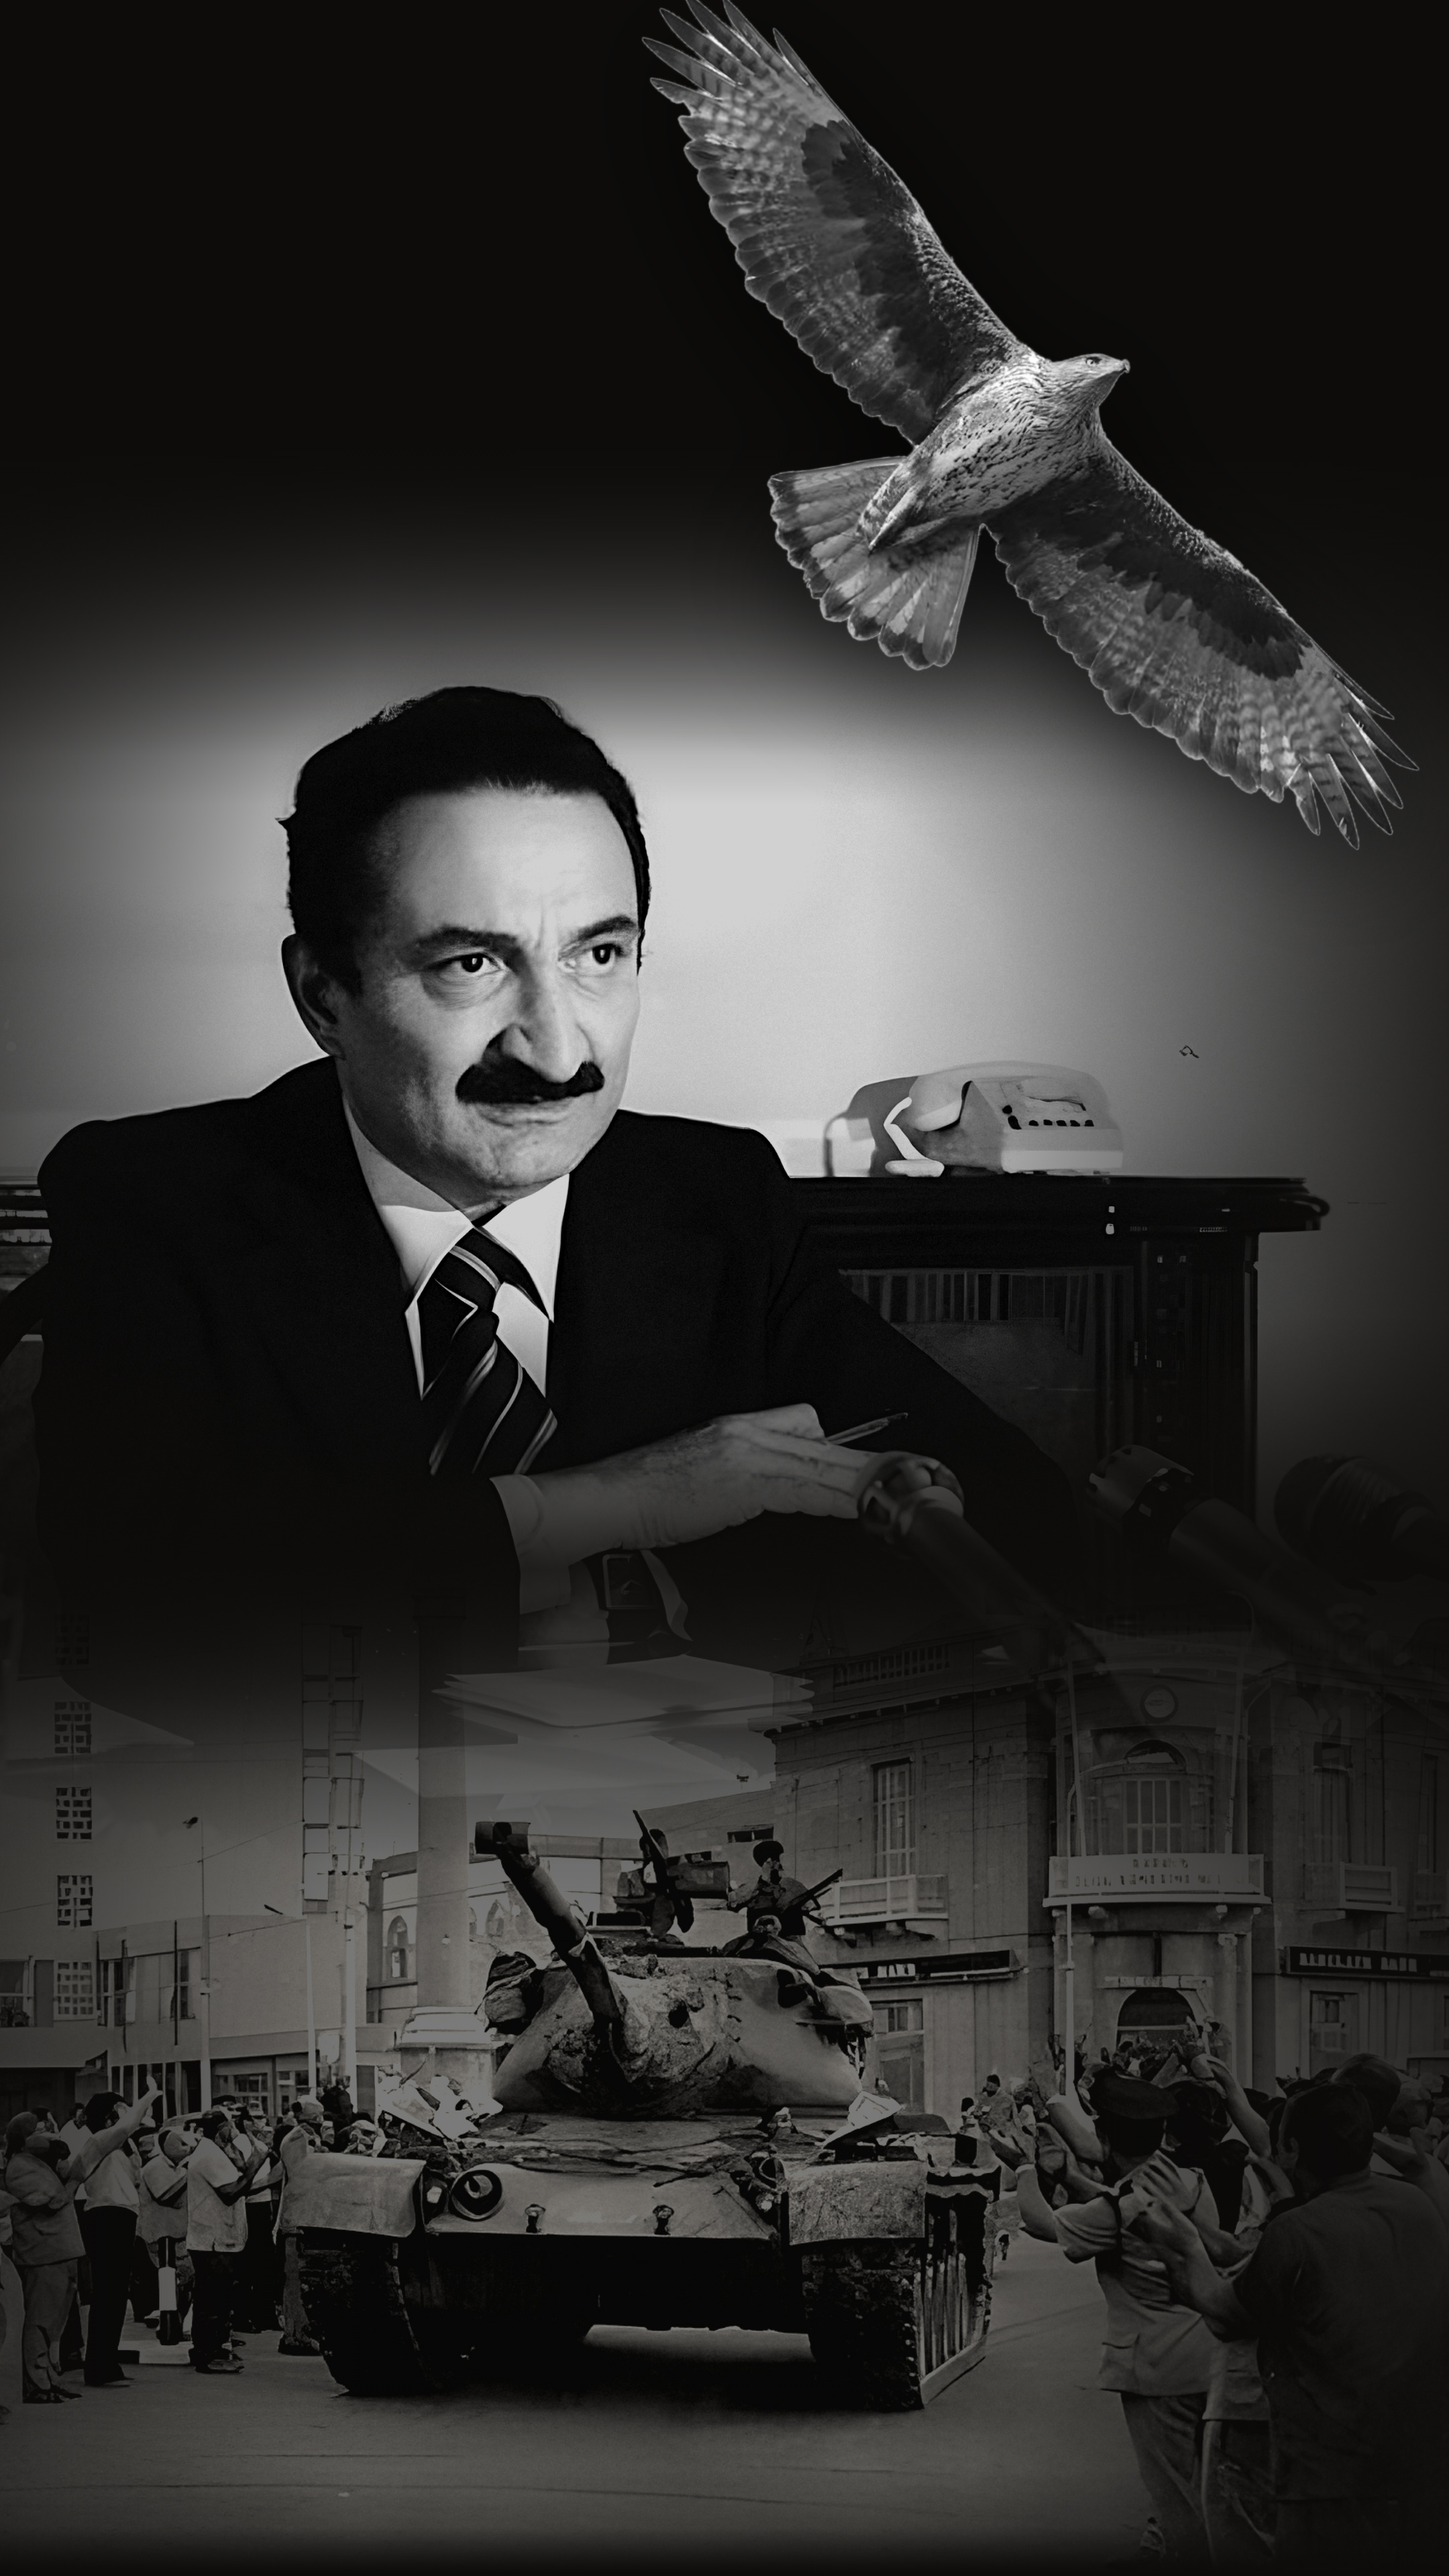
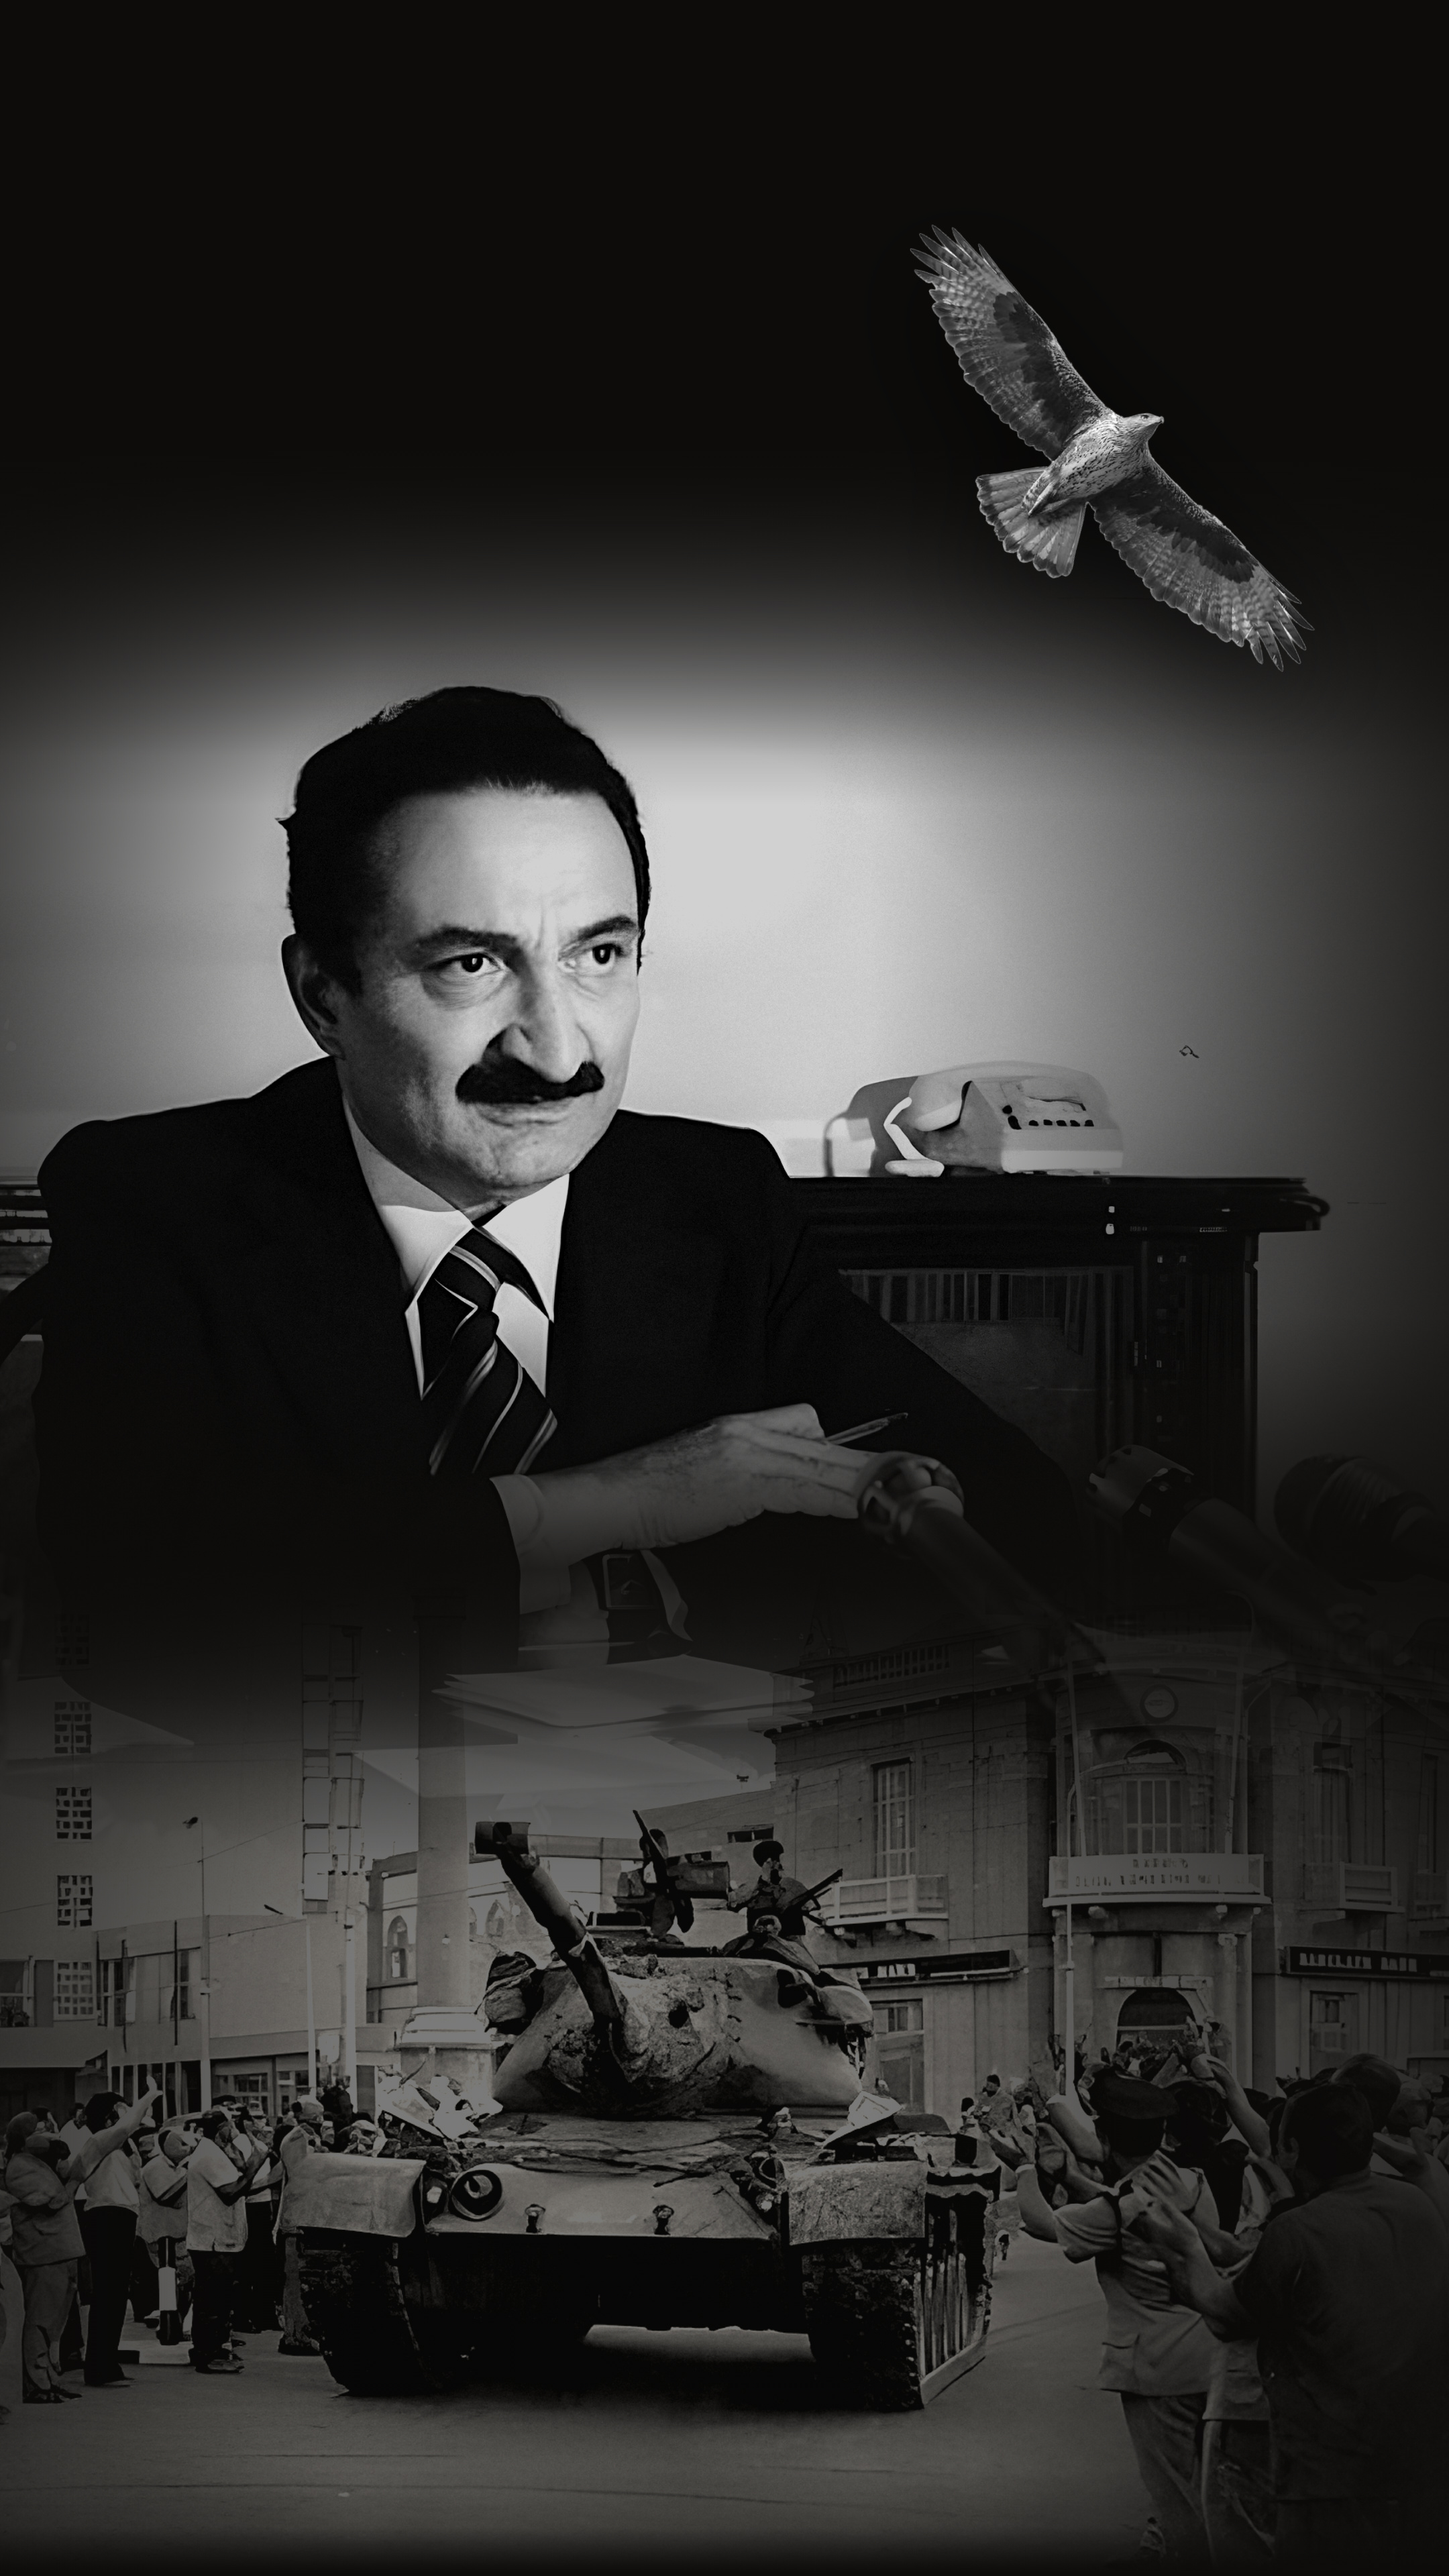
Ecevit story: kartal belirgin şekilde küçültüldü
Claude-Session: https://claude.ai/code/session_01SatttGbgBLoCnk9KGLypWv

Changed region(s): [[0.4343, 0.0, 0.9616, 0.3125]]

diff --git a/tasarim/kisisel/ecevit-kibris/gorsel.html b/tasarim/kisisel/ecevit-kibris/gorsel.html
@@ -6,7 +6,7 @@ html,body{margin:0;width:1080px;height:1920px;overflow:hidden;background:#0d0c0b
  linear-gradient(180deg,#0d0c0b 0,#0d0c0b 300px,rgba(13,12,11,.6) 430px,rgba(13,12,11,0) 600px,rgba(13,12,11,0) 980px,rgba(13,12,11,.85) 1170px,rgba(13,12,11,.2) 1330px,rgba(13,12,11,0) 1450px,rgba(13,12,11,0) 1840px,rgba(13,12,11,.6) 1920px),
  linear-gradient(90deg,rgba(13,12,11,.55) 0,rgba(13,12,11,0) 25%,rgba(13,12,11,0) 60%,rgba(13,12,11,.75)),
  radial-gradient(700px 520px at 470px 760px,rgba(13,12,11,0) 40%,rgba(13,12,11,.55))}
-.kartal{position:absolute;left:520px;top:-40px;width:500px;transform:rotate(-8deg);filter:drop-shadow(0 20px 40px rgba(0,0,0,.6))}
+.kartal{position:absolute;left:700px;top:150px;width:260px;transform:rotate(-8deg);filter:drop-shadow(0 20px 40px rgba(0,0,0,.6))}
 </style><body>
 <img class="tank" src="tank-sb.jpg">
 <img class="ecv" src="ecevit-sb.png">
